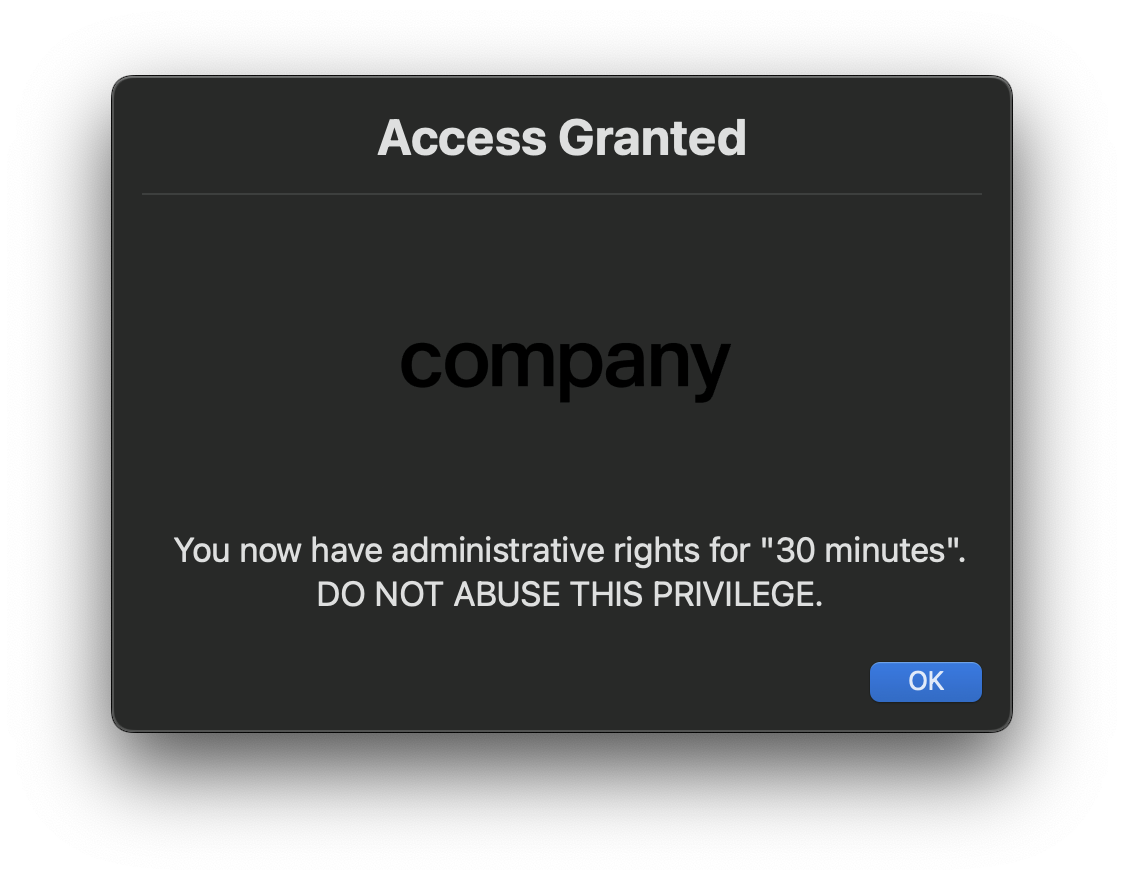
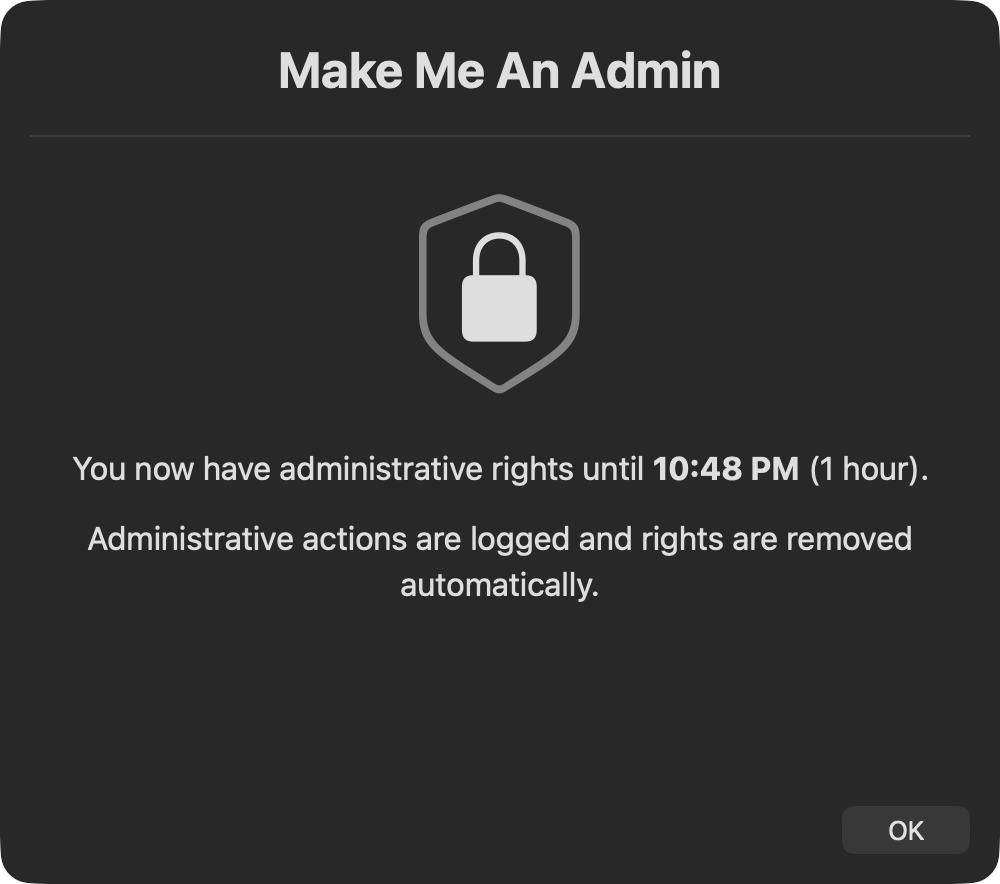
Update screenshot previews for current layout

diff --git a/ReadMe.md b/ReadMe.md
@@ -19,8 +19,6 @@ A modernized, vendor-agnostic fork of [Jamf's MakeMeAnAdmin](https://github.com/
 
 ## Screenshot Preview
 
-> The screenshots below predate the current layout. Re-capture them with `./MakeMeAnAdmin.sh preview` (see [Previewing your branding](#previewing-your-branding)).
-
 ### Time Selection Prompt
 ![Time Selection](screenshots/prompt.png)
 
